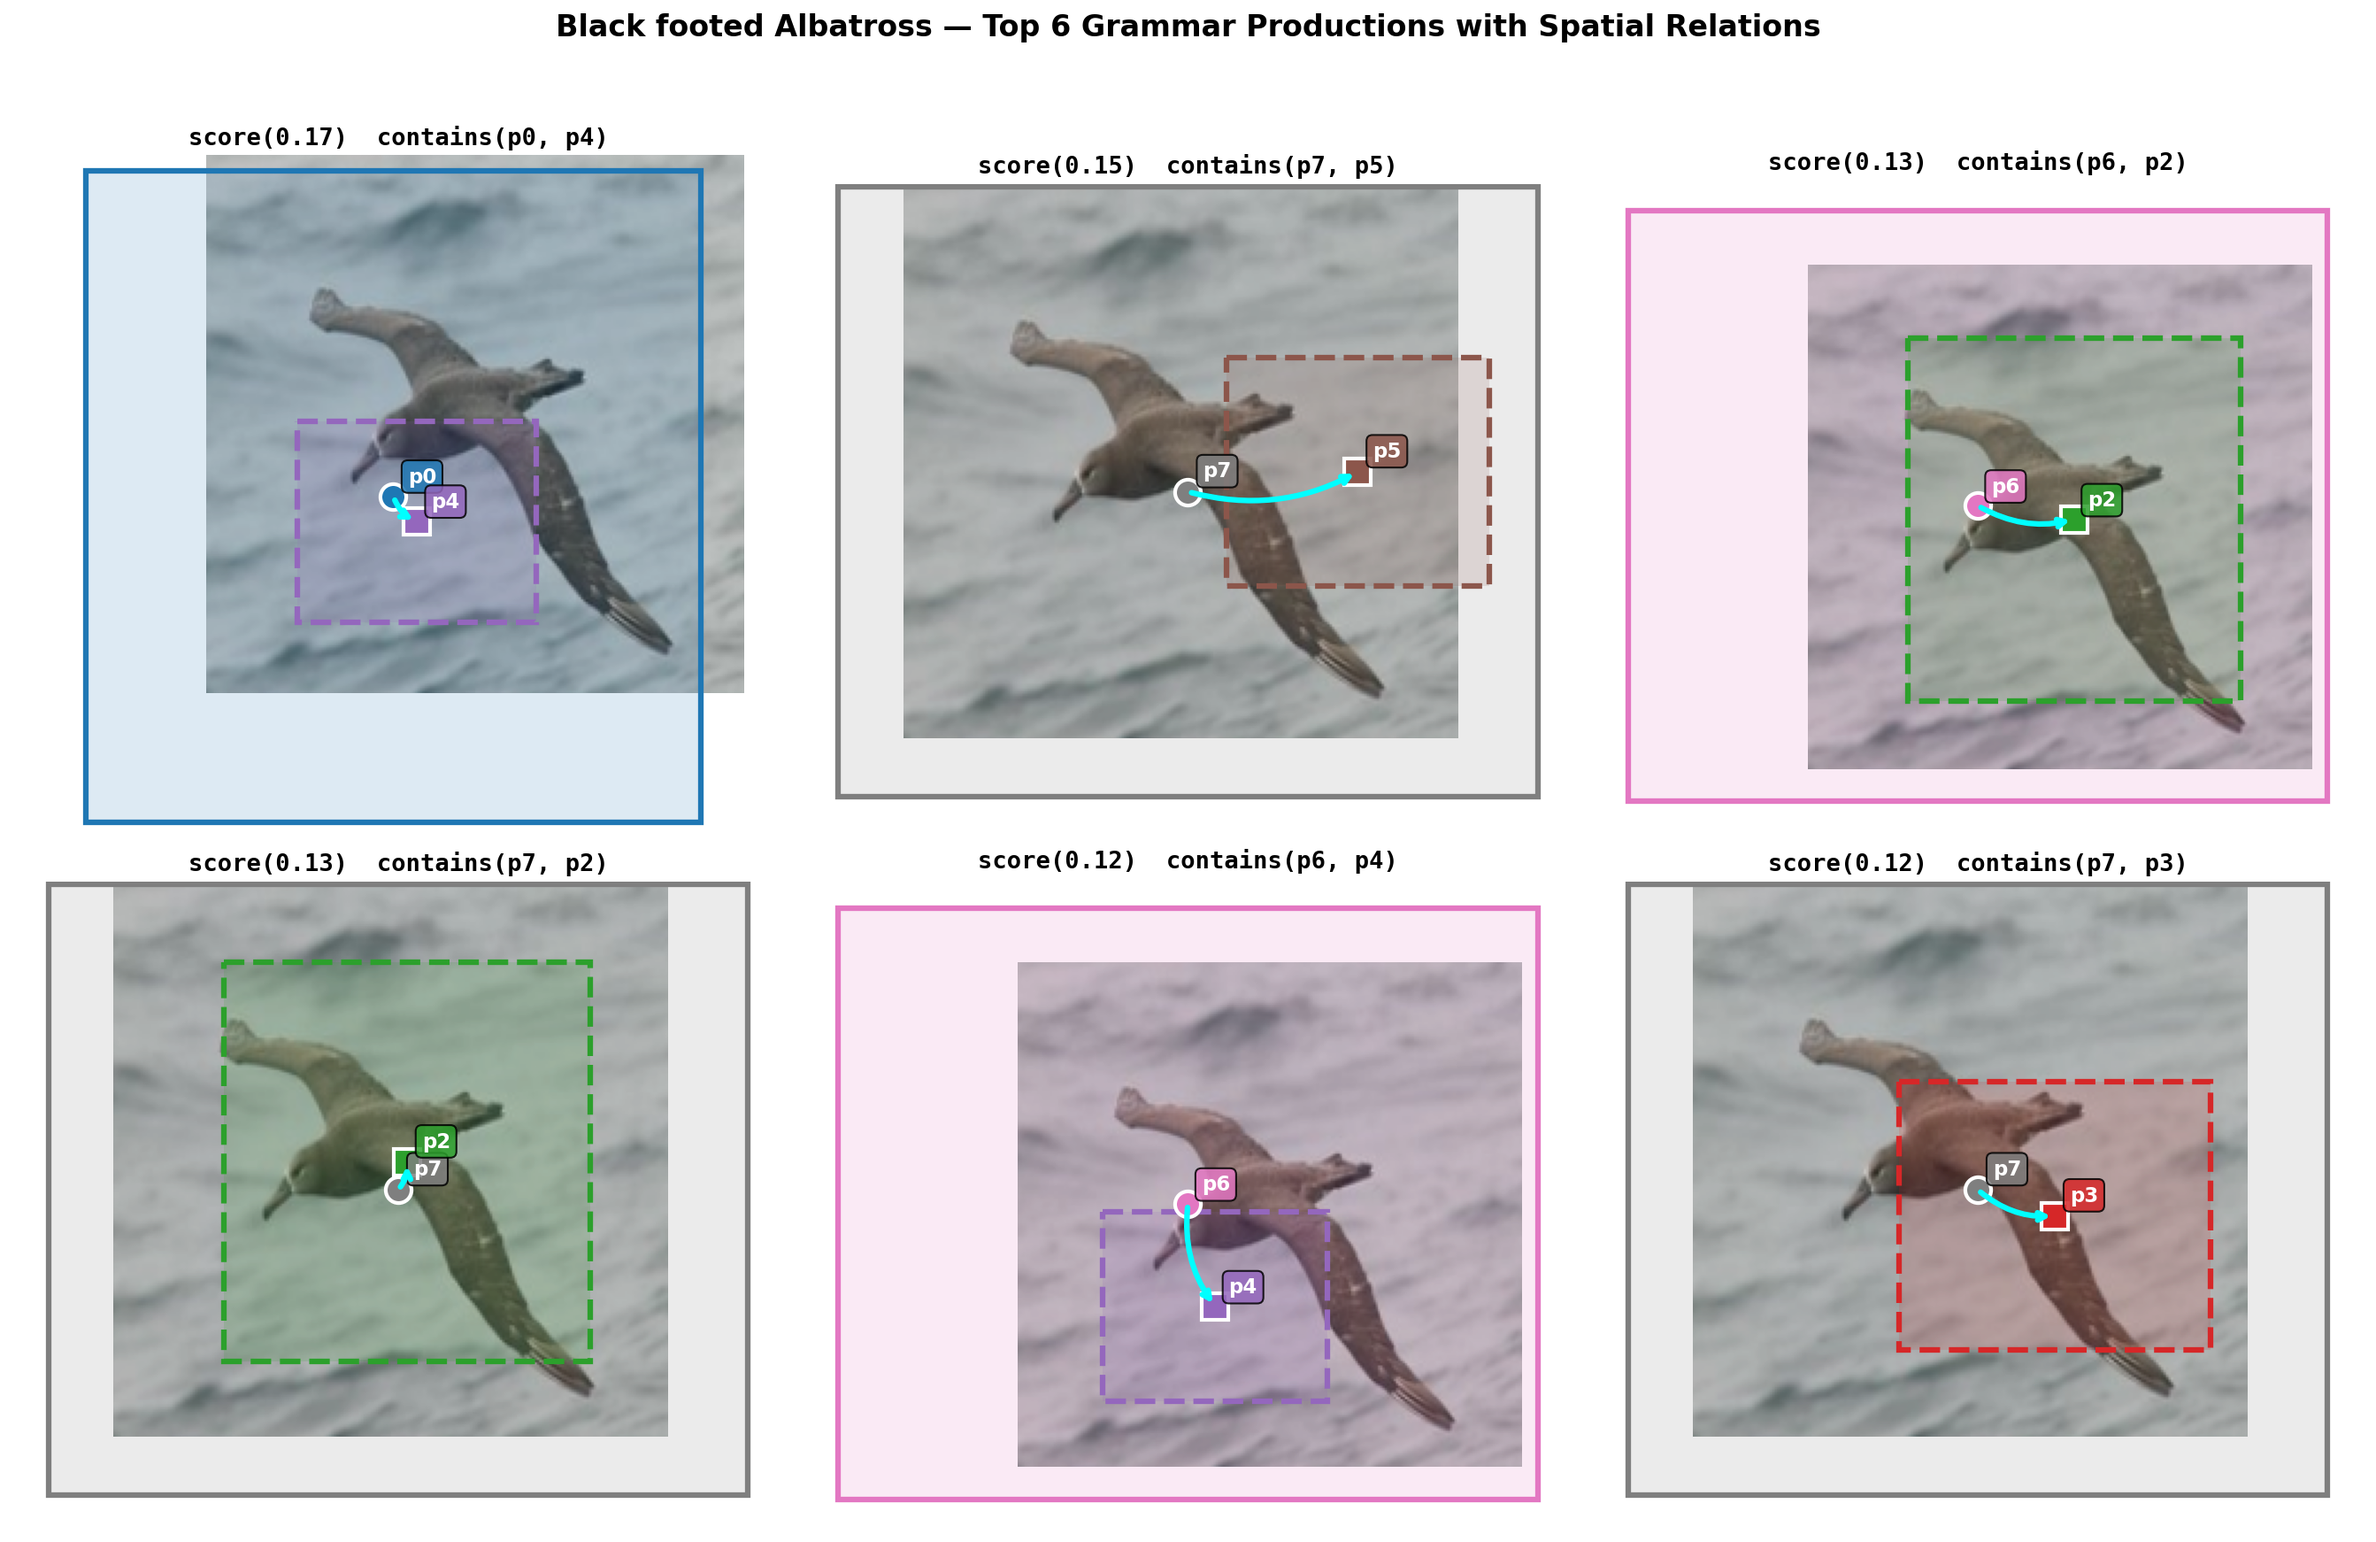
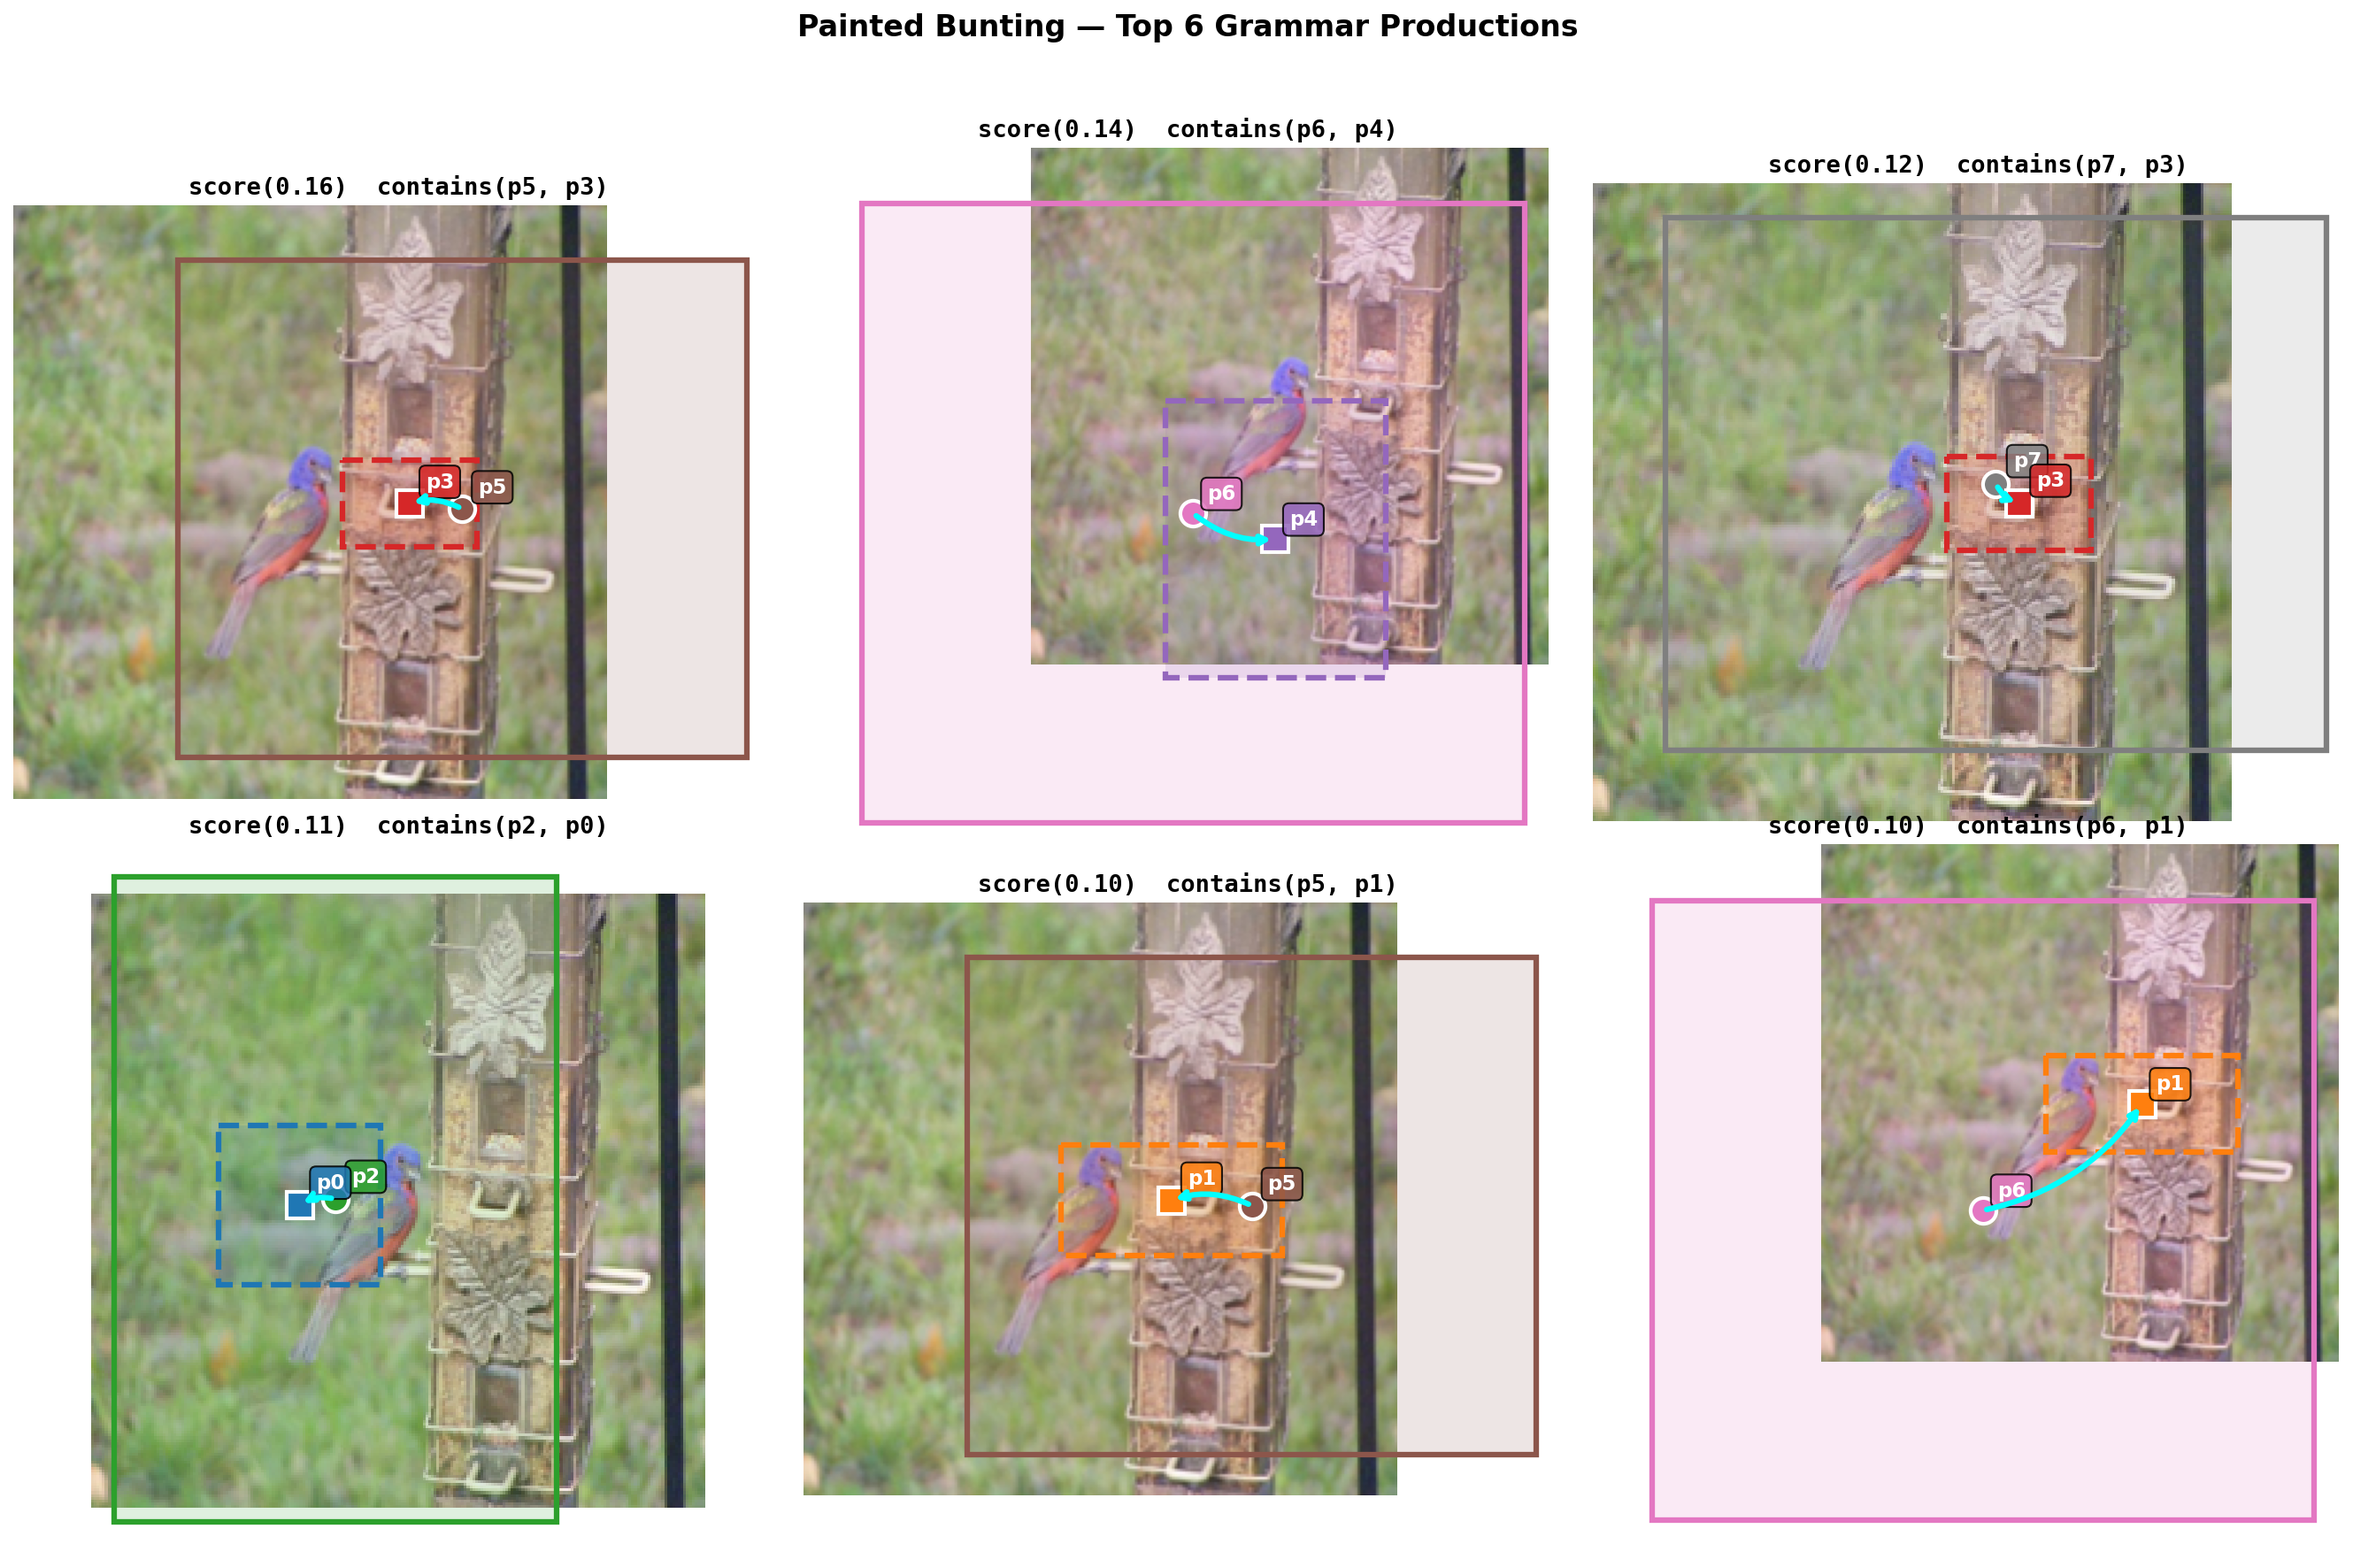
Switch visualizations to Painted Bunting (more colorful)

diff --git a/_posts/2026-03-21-neurosymbolic-dg.md b/_posts/2026-03-21-neurosymbolic-dg.md
@@ -66,25 +66,25 @@ The tradeoff is expressiveness vs. invariance. Learned relation semantics can ca
 
 ## The full pipeline on a real image
 
-Here's the complete pipeline running on a Black-footed Albatross photo — from detected primitives through concept heatmaps to the grammar derivation:
+Here's the complete pipeline running on a Painted Bunting — from detected primitives through concept heatmaps to the grammar derivation:
 
 <img src="{{ '/assets/img/neurosymbolic_dg/full_pipeline_viz.png' | relative_url }}" alt="Full pipeline visualization" style="max-width: 100%; height: auto;">
 
-Left: the 8 detected primitives overlaid on the input image. Middle: per-primitive concept heatmaps showing what each primitive attends to (bright = high activation). Right: the grammar's derivation for this class — 8 active productions out of 344, dominated by `contains` relations capturing part-whole nesting.
+Left: the 8 detected primitives overlaid on the input image. Middle: per-primitive concept heatmaps showing what each primitive attends to (bright = high activation). Right: the grammar's derivation — 12 active productions out of 344, dominated by `contains` relations capturing spatial overlap between detected parts.
 
 And here's what each grammar rule looks like spatially — the top 6 active productions visualized with their bounding boxes and relation arrows:
 
 <img src="{{ '/assets/img/neurosymbolic_dg/grammar_rules_viz.png' | relative_url }}" alt="Grammar rules with bounding boxes" style="max-width: 100%; height: auto;">
 
-Each subplot shows one active production. The colored bounding boxes are the spatial extent of each primitive (estimated from heatmap variance), and the arrows show the spatial relation being scored. For this Albatross, the grammar is dominated by `contains` relations — different primitives detecting nested body regions (body contains wing-patch, body contains tail, etc.).
+Each subplot shows one active production. The colored bounding boxes show the spatial extent of each primitive (estimated from heatmap variance), and the arrows indicate which pair is being scored. The grammar captures spatial relationships between different parts of the bird — which regions overlap, which are above others.
 
 ## Same primitives, different domains
 
-The key claim is that the grammar's spatial structure transfers across visual domains. Here's the same species (Black-footed Albatross) across Photo, Art, and Cartoon renderings, with all 8 concept heatmaps:
+The key claim is that the grammar's spatial structure transfers across visual domains. Here's the same species (Painted Bunting) across Photo, Art, and Cartoon renderings, with all 8 concept heatmaps:
 
 <img src="{{ '/assets/img/neurosymbolic_dg/cross_domain_heatmaps.png' | relative_url }}" alt="Cross-domain heatmaps" style="max-width: 100%; height: auto;">
 
-The primitives detect similar spatial regions across domains — the heatmap patterns are consistent even though the pixel-level appearance changes dramatically. The grammar scores spatial relations between these primitives, and since the relations ("p0 contains p4", "p1 above p2") hold across all renderings, the grammar produces the same classification.
+The primitives detect similar spatial regions across domains — the heatmap patterns are consistent even though the pixel-level appearance changes. The grammar scores spatial relations between these primitives, and since the spatial structure holds across all renderings, the grammar produces the same classification.
 
 ## What the grammar actually learns
 
